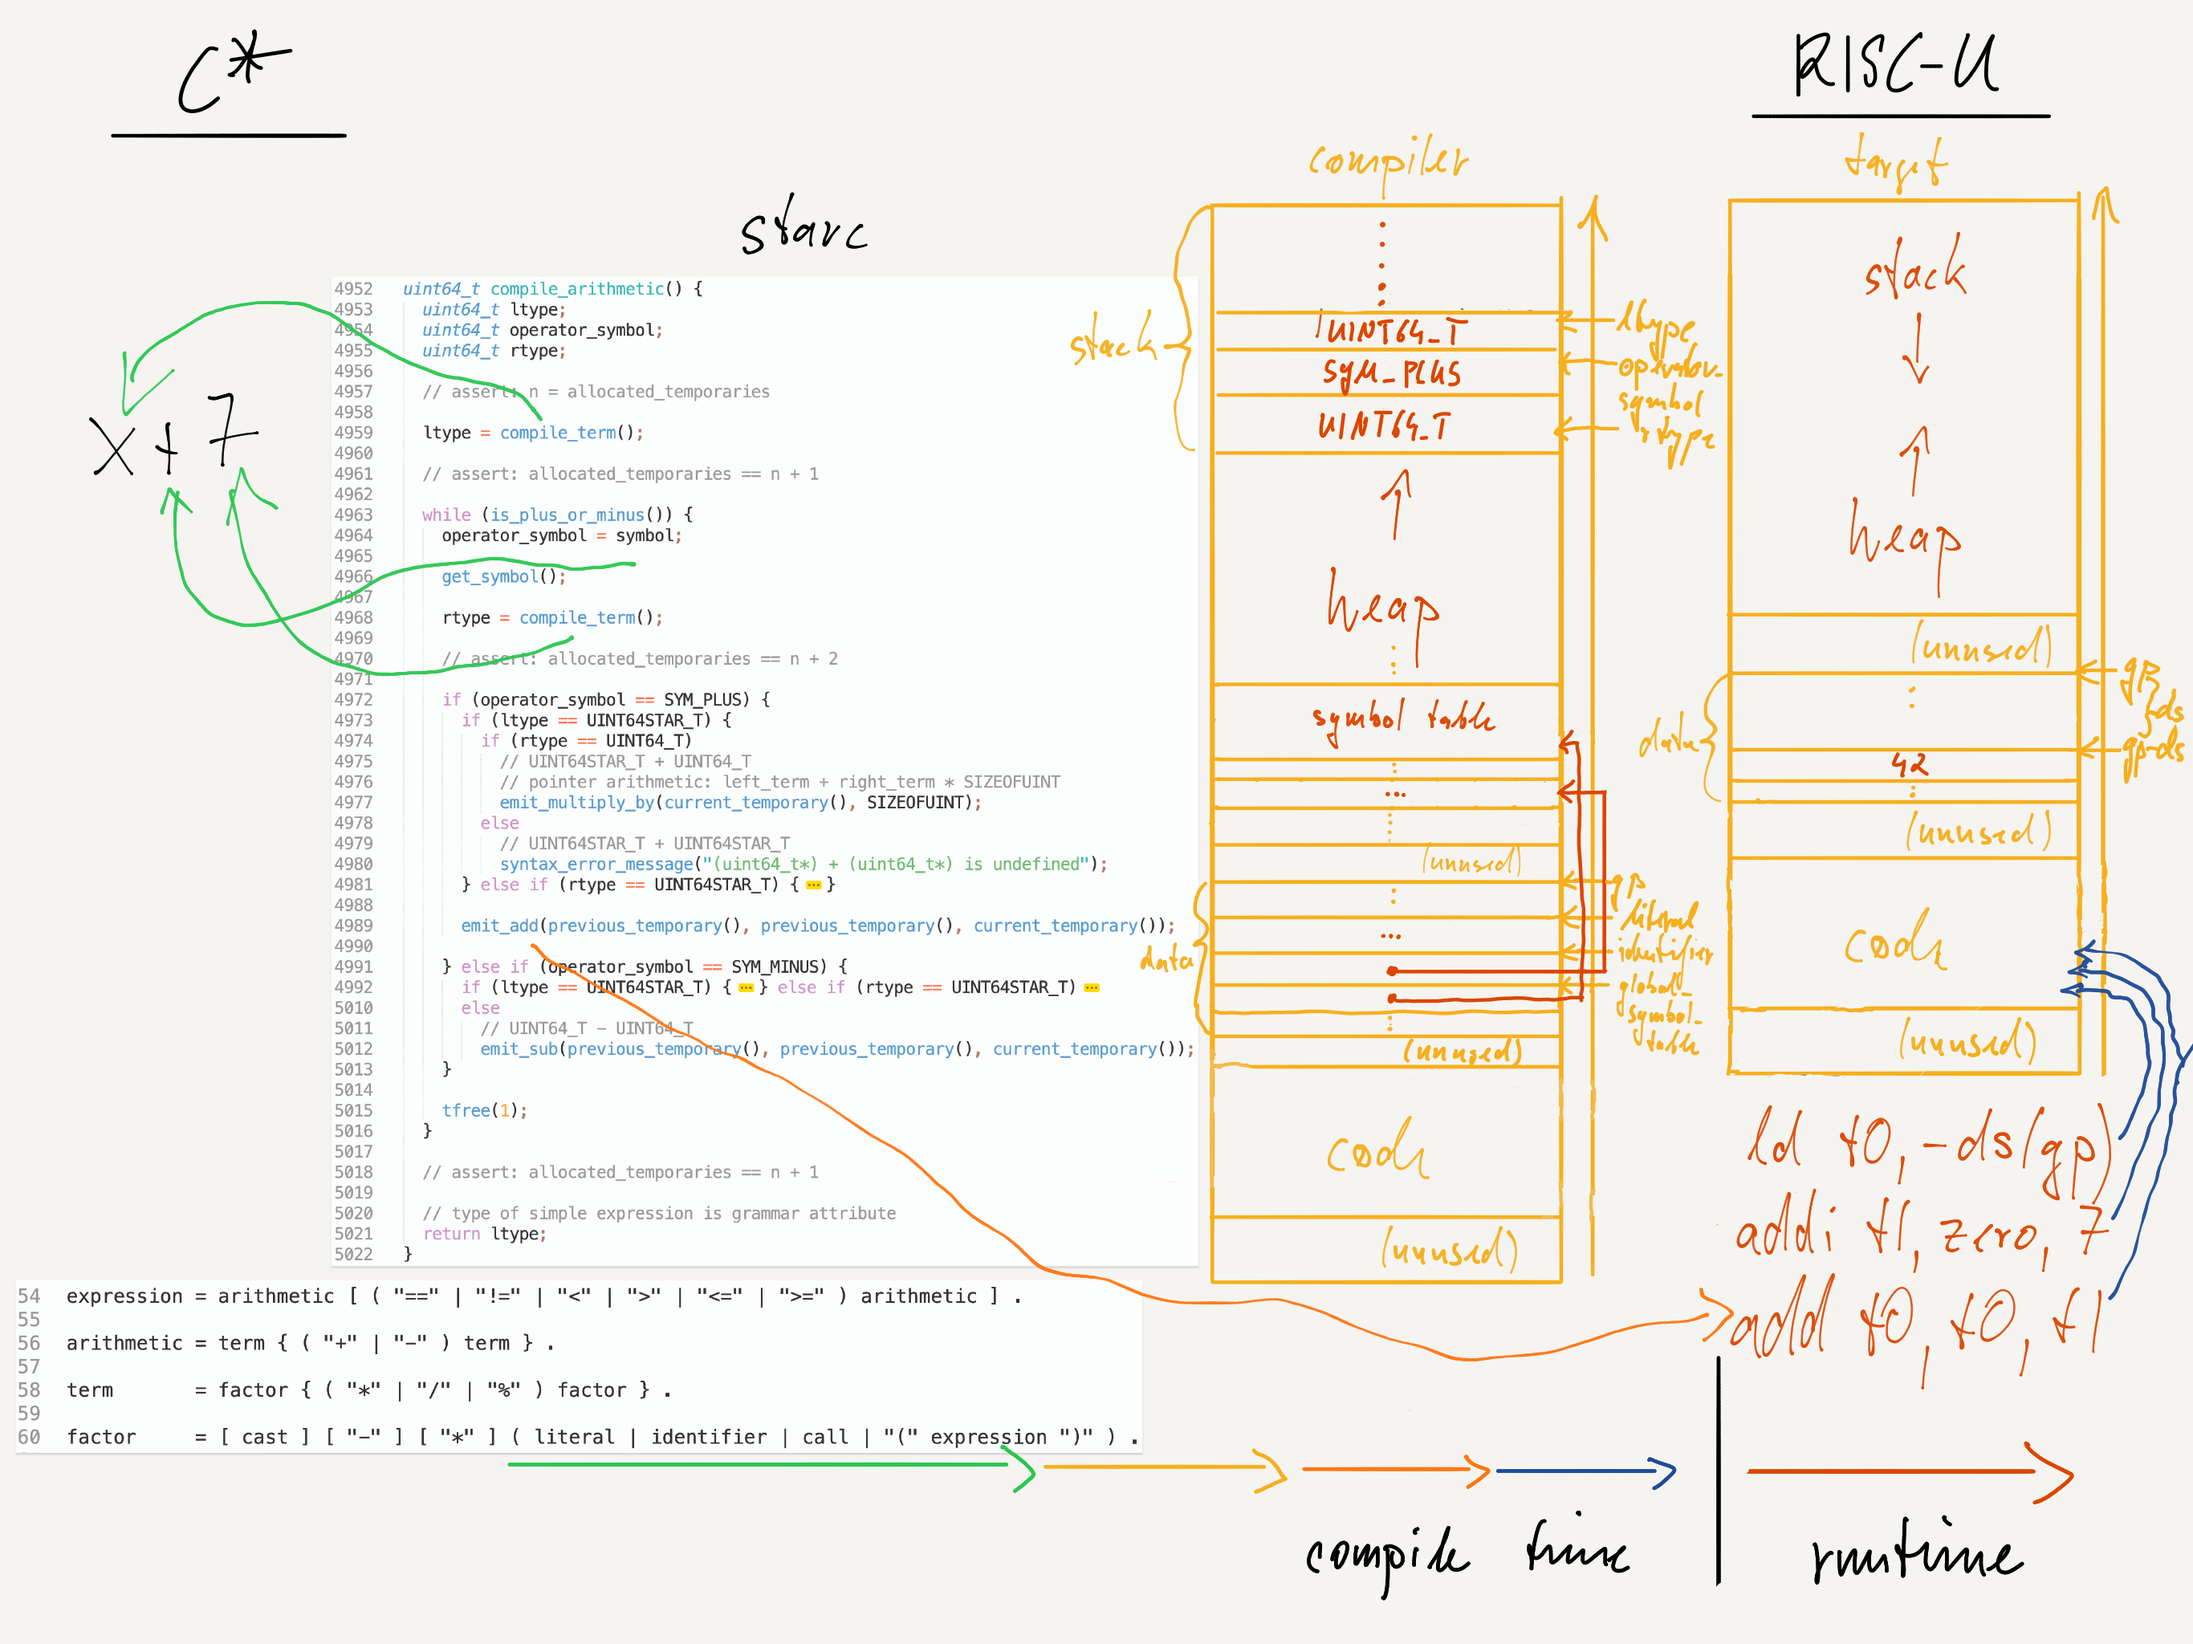
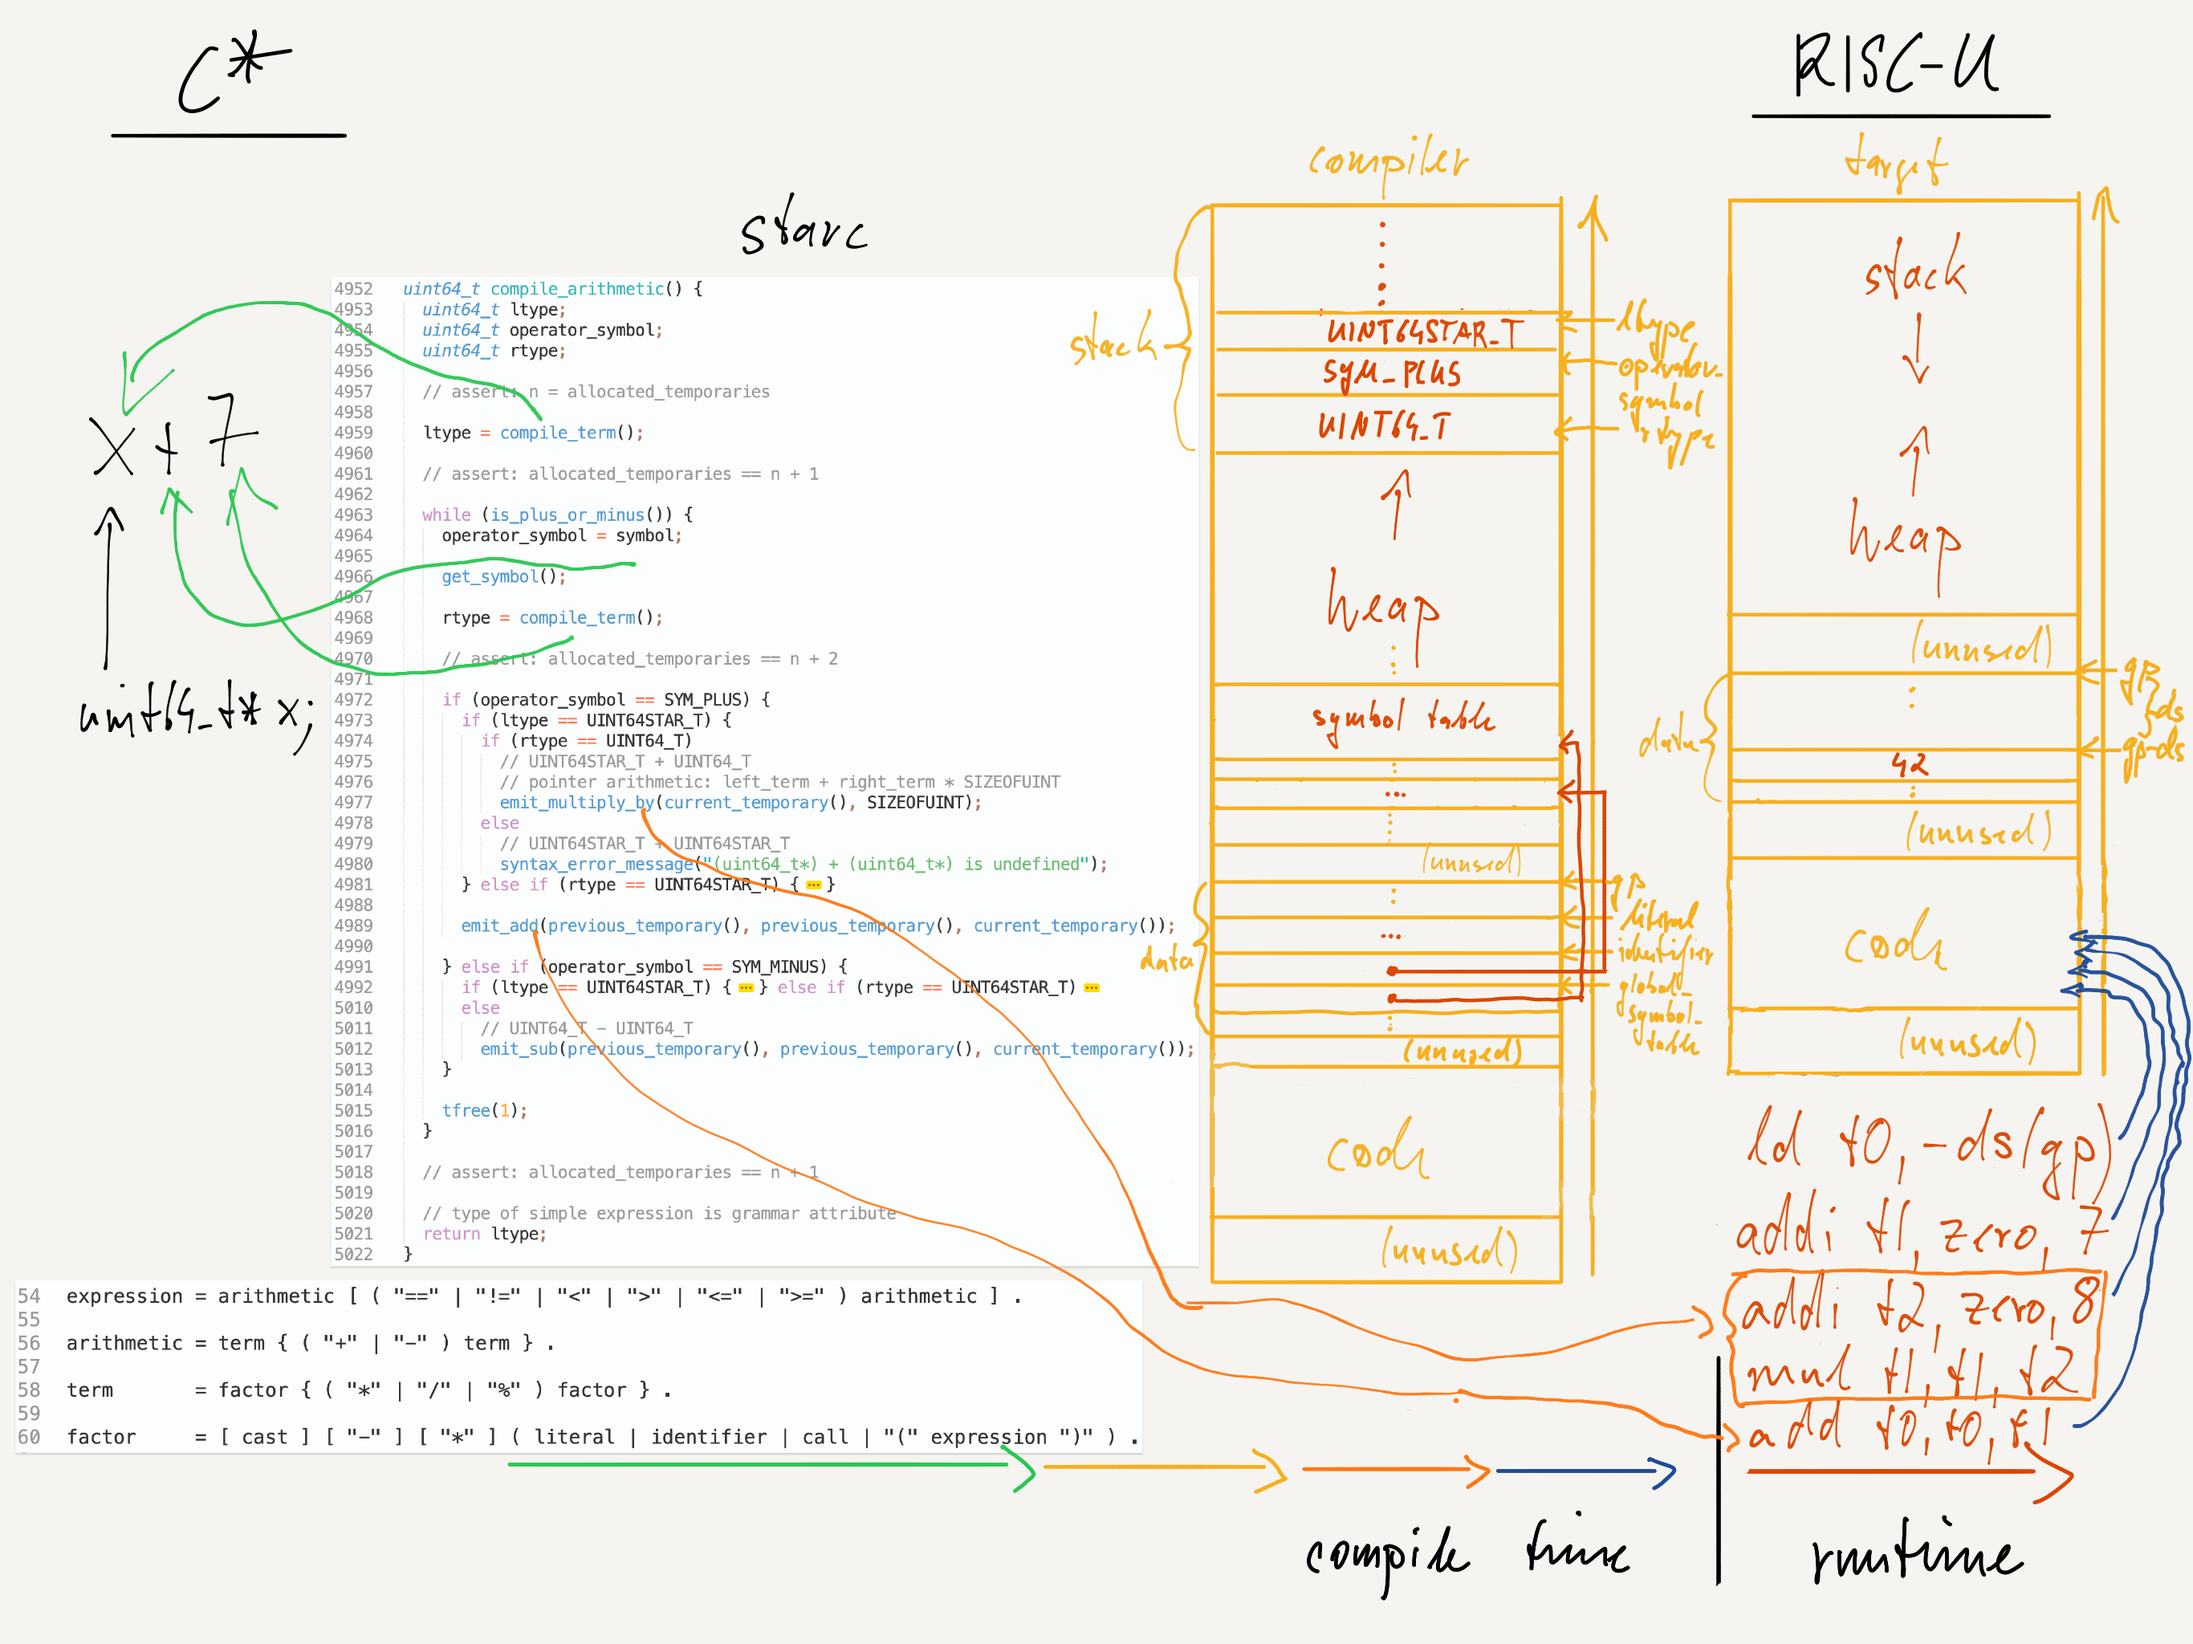
Pointer arithmetic, not done

diff --git a/README.md b/README.md
@@ -4714,17 +4714,19 @@ For example, register `t0` is accessed around 460 million times, roughly half by
 
 > Constant folding
 
-Before moving on there is yet another opportunity here to talk about optimization. What if we compile an expression with constant operands such as `42 * 7`, for example? The selfie compiler would still generate code for that even though it could easily figure out to which value the expression evaluates, and then just use that value, instead of generating code. Doing so is called *constant folding* which is arguably the most basic form of compiler optimization, and implemented in virtually all production compilers. In other words, if spelling out `42 * 7` in your code, instead of just saying `294`, makes the code more readable, keep it and do not worry about performance. Your compiler takes care of that, and many other apparent inefficiencies.
+Before moving on there is yet another opportunity here to talk about code optimization. What if we compile an expression with constant operands such as `42 * 7`, for example? The selfie compiler would still generate code for that even though it could easily figure out to which value the expression evaluates, and then just use that value, instead of generating code for the whole expression. Doing so is called *constant folding* which is arguably the most basic form of code optimization, and implemented in virtually all production compilers. In other words, if spelling out `42 * 7` in your code, instead of just saying `294`, makes the code more readable, keep it and do not worry about performance. Your compiler takes care of that, and many other apparent inefficiencies.
 
 The other reason we mention constant folding is because it beautifully shows the tradeoff between compile time and runtime. The more time we spend at compile time trying to compute as much as possible just once before generating code, the more time we may save at runtime recomputing values again and again that could have been computed just once before. While constant folding is relatively easy to do and an interesting exercise for students, other code optimization techniques can be a lot more involved but nevertheless explore the same tradeoff.
 
 ![Arithmetic](figures/emitting-arithmetic.png "Arithmetic")
 
-type polymorphism
+Compiling arithmetic expressions with operators for addition and subtraction works the same way as compiling terms with operators for multiplication, division, and remainder. Code generation just uses the `add` and `sub` instructions for the operators `+` and `-`, respectively. An interesting twist, however, is that both `+` and `-` are *overloaded* operators in C\*, and many other programming languages, with *type polymorphism*, as mentioned before. Their semantics depends on the type of their operands.
 
 pointer arithmetic: use symbol table getters and setters as example
 
 #### Logical Operators
+
+![Expressions](figures/emitting-expressions.png "Expressions")
 
 #### Negation Operator
 
